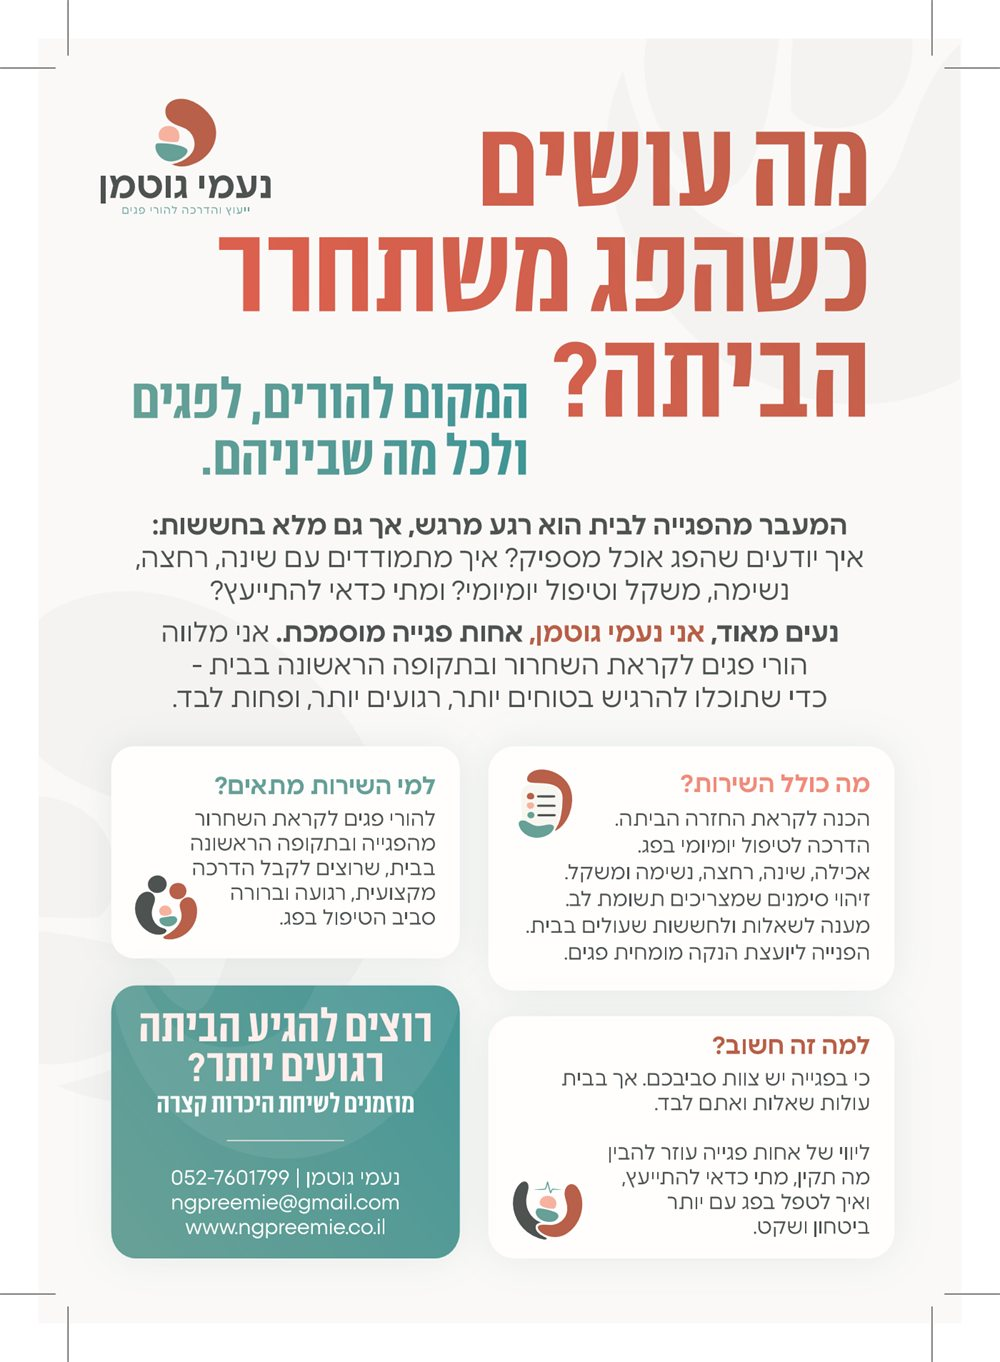
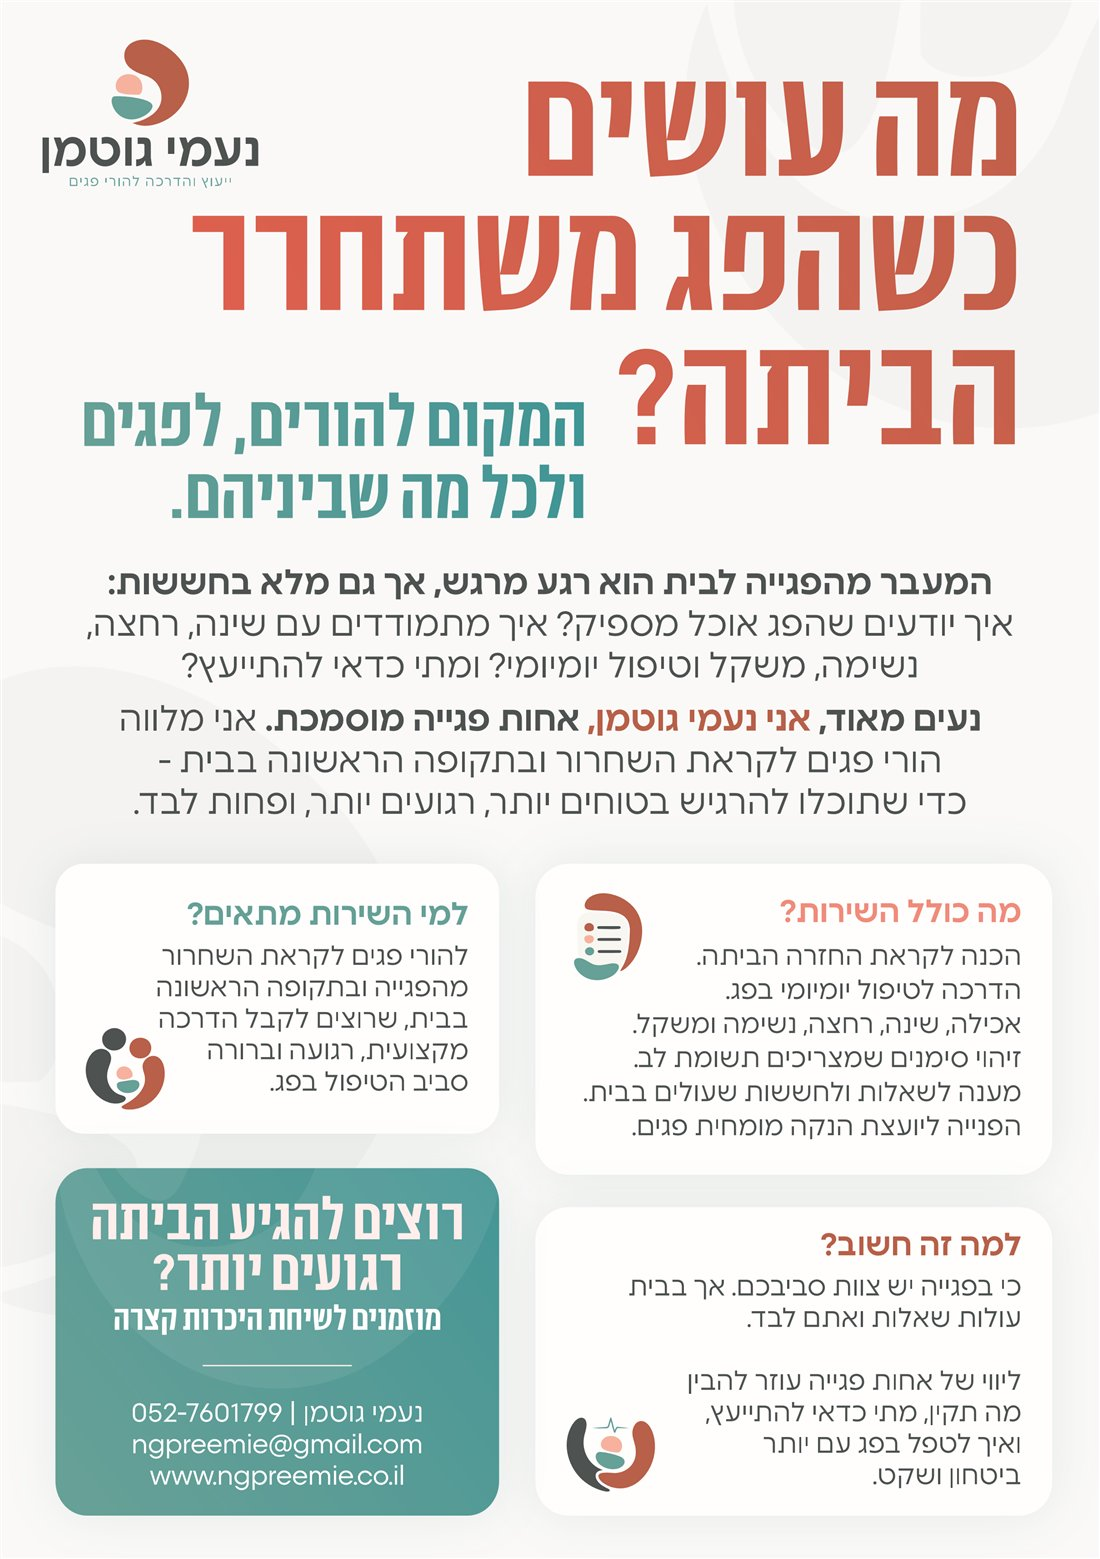
עדכון: תפריט נגישות חדש, פרויקטים במובייל בטור אחד, עמוד הפרויקט של נעמי גוטמן

diff --git a/projects/naomi-gutman.html b/projects/naomi-gutman.html
@@ -12,11 +12,11 @@
   <link rel="icon" href="../assets/logo.svg" type="image/svg+xml">
   <link rel="preload" href="../fonts/Danidin-CondensedBlack.woff2" as="font" type="font/woff2" crossorigin>
   <link rel="preload" href="../fonts/Polin-Regular.woff2" as="font" type="font/woff2" crossorigin>
-  <link rel="stylesheet" href="../css/style.css?v=27">
-  <link rel="stylesheet" href="../css/project.css?v=27">
-  <link rel="stylesheet" href="../css/a11y.css?v=27">
+  <link rel="stylesheet" href="../css/style.css?v=28">
+  <link rel="stylesheet" href="../css/project.css?v=28">
+  <link rel="stylesheet" href="../css/a11y.css?v=28">
   <script>document.documentElement.classList.add("js");</script>
-  <script src="../js/a11y.js?v=27"></script>
+  <script src="../js/a11y.js?v=28"></script>
 </head>
 <body class="pj-page">
 <a class="skip-link" href="#main">דילוג לתוכן הראשי</a>
@@ -237,12 +237,12 @@
       <!-- לוחות המיקוד – כשיש תמונות: מחליפים את ה-div.pj-ph ב-<img src="..." alt="..."> -->
       <div class="pj-boards">
         <figure class="pj-figure pj-board pj-board--muted" data-reveal>
-          <div class="pj-ph"><span>לוח מיקוד 1 – תדר / גל מוניטור</span></div>
+          <img src="../assets/projects/naomi-gutman/focus-1.webp" alt="לוח מיקוד 1 שלא נבחר: בורדו ותכלת, קווים רציפים שנראים כמו גל או תדר, לב שנכתב בקו אחד וזוגות הורים עם תינוק" loading="lazy" width="2000" height="451">
           <figcaption>לוח מיקוד 1 – תדר משותף</figcaption>
         </figure>
         <figure class="pj-figure pj-board pj-board--pick" data-reveal>
           <span class="pj-board__tag">הכיוון שנבחר</span>
-          <div class="pj-ph"><span>לוח מיקוד 2 – משפחה שלמה בדרכה</span></div>
+          <img src="../assets/projects/naomi-gutman/focus-2.jpg" alt="לוח מיקוד 2 שנבחר: אפור-כחול כהה, מנטה ואפרסק, צורות אורגניות רכות, איורי דמויות וזוגות הורים מחבקים תינוק" loading="lazy" width="2000" height="451">
           <figcaption>לוח מיקוד 2 – משפחה, לא מושלמת אבל שלמה</figcaption>
         </figure>
       </div>
@@ -339,11 +339,12 @@
         <p class="pj-lead" data-reveal>מבחינתי, התוצאה היא לא רק מותג שנראה מקצועי, אלא תשתית שמאפשרת לנעמי להציג את עצמה ואת השירות שלה בביטחון.</p>
       </div>
       <div class="pj-gallery">
+        <figure class="pj-gallery__item pj-gallery__item--full" data-reveal><img src="../assets/projects/naomi-gutman/mock-flyers.jpg" alt="הפלאיירים של נעמי גוטמן על משטח בהיר, לצד מדבקה עגולה עם הלוגו וכרטיס בפאטרן של המותג" loading="lazy" width="2000" height="1250"></figure>
+        <figure class="pj-gallery__item pj-gallery__item--full" data-reveal><img src="../assets/projects/naomi-gutman/mock-cards.jpg" alt="כרטיס ביקור עם הלוגו האופקי, גב הכרטיס בפאטרן, מדבקה עגולה ואייקון המותג על רקע אפור-כחול כהה" loading="lazy" width="2000" height="1250"></figure>
+        <figure class="pj-gallery__item pj-gallery__item--43" data-reveal><img src="../assets/projects/naomi-gutman/mock-paper.jpg" alt="דף עם הלוגו האנכי לצד דף בפאטרן המותג, על רקע אפרסק" loading="lazy" width="2000" height="1250"></figure>
+        <figure class="pj-gallery__item pj-gallery__item--43" data-reveal><img src="../assets/projects/naomi-gutman/photo-style.jpg" alt="שפת הצילום של המותג: הורים ותינוקות ברגעים רכים בבית" loading="lazy" width="981" height="1311"></figure>
         <div class="pj-gallery__item pj-gallery__item--full pj-ph" data-reveal><span>מוקאפ של האתר</span></div>
-        <figure class="pj-gallery__item pj-gallery__item--43" data-reveal><img src="../assets/projects/naomi-gutman/logo-round.jpg" alt="הלוגו העגול של נעמי גוטמן: ייעוץ והדרכה להורי פגים" loading="lazy" width="720" height="900"></figure>
-        <figure class="pj-gallery__item pj-gallery__item--43" data-reveal><img src="../assets/projects/naomi-gutman/photo-style.jpg" alt="שפת הצילום של המותג: הורים ותינוקות ברגעים רכים בבית" loading="lazy" width="720" height="900"></figure>
-      </div>
-    </section>
+      </div>    </section>
 
     <!-- ===== 09 התוצאה העסקית ===== -->
     <section class="pj-section" aria-labelledby="pj-business">
@@ -473,7 +474,7 @@
 
 </div>
 
-<script src="../js/config.js?v=27"></script>
-<script src="../js/main.js?v=27"></script>
+<script src="../js/config.js?v=28"></script>
+<script src="../js/main.js?v=28"></script>
 </body>
 </html>

diff --git a/index.html b/index.html
@@ -12,11 +12,11 @@
   <link rel="icon" href="assets/logo.svg" type="image/svg+xml">
   <link rel="preload" href="fonts/Danidin-CondensedBlack.woff2" as="font" type="font/woff2" crossorigin="">
   <link rel="preload" href="fonts/Polin-Regular.woff2" as="font" type="font/woff2" crossorigin="">
-  <link rel="stylesheet" href="css/style.css?v=27">
-  <link rel="stylesheet" href="css/a11y.css?v=27">
+  <link rel="stylesheet" href="css/style.css?v=28">
+  <link rel="stylesheet" href="css/a11y.css?v=28">
   <link rel="stylesheet" href="css/edits/index.css?v=mveaypby">
   <script>document.documentElement.classList.add("js");</script>
-  <script src="js/a11y.js?v=27"></script>
+  <script src="js/a11y.js?v=28"></script>
 </head>
 <body>
 <a class="skip-link" href="#main">דילוג לתוכן הראשי</a>
@@ -51,7 +51,7 @@
     <img class="deco hero__scribble" src="assets/scribble-teal.svg" alt="" aria-hidden="true">
     <img class="deco hero__dots-l" src="assets/dots-left.jpg" alt="" aria-hidden="true">
     <img class="deco hero__dots-r" src="assets/dots-right.jpg" alt="" aria-hidden="true">
-    <img class="deco hero__star" src="assets/star-yellow.png?v=27" alt="" aria-hidden="true">
+    <img class="deco hero__star" src="assets/star-yellow.png?v=28" alt="" aria-hidden="true">
     <img class="hero__photo" src="assets/amit-hero.jpg" alt="עמית סיגאוי מחייכת עם כובע טמבל" width="940" height="918" fetchpriority="high">
     <img class="deco brush brush--hero" src="assets/brush-white.svg" alt="" aria-hidden="true">
 
@@ -285,8 +285,8 @@
 
 </div>
 
-<script src="js/config.js?v=27"></script>
-<script src="js/main.js?v=27"></script>
+<script src="js/config.js?v=28"></script>
+<script src="js/main.js?v=28"></script>
 
 
 </body></html>

diff --git a/projects/maavar-lakavim.html b/projects/maavar-lakavim.html
@@ -12,11 +12,11 @@
   <link rel="icon" href="../assets/logo.svg" type="image/svg+xml">
   <link rel="preload" href="../fonts/Danidin-CondensedBlack.woff2" as="font" type="font/woff2" crossorigin>
   <link rel="preload" href="../fonts/Polin-Regular.woff2" as="font" type="font/woff2" crossorigin>
-  <link rel="stylesheet" href="../css/style.css?v=27">
-  <link rel="stylesheet" href="../css/project.css?v=27">
-  <link rel="stylesheet" href="../css/a11y.css?v=27">
+  <link rel="stylesheet" href="../css/style.css?v=28">
+  <link rel="stylesheet" href="../css/project.css?v=28">
+  <link rel="stylesheet" href="../css/a11y.css?v=28">
   <script>document.documentElement.classList.add("js");</script>
-  <script src="../js/a11y.js?v=27"></script>
+  <script src="../js/a11y.js?v=28"></script>
 </head>
 <body class="pj-page">
 <a class="skip-link" href="#main">דילוג לתוכן הראשי</a>
@@ -403,7 +403,7 @@
 
 </div>
 
-<script src="../js/config.js?v=27"></script>
-<script src="../js/main.js?v=27"></script>
+<script src="../js/config.js?v=28"></script>
+<script src="../js/main.js?v=28"></script>
 </body>
 </html>

diff --git a/projects/maya-shiflaski.html b/projects/maya-shiflaski.html
@@ -12,11 +12,11 @@
   <link rel="icon" href="../assets/logo.svg" type="image/svg+xml">
   <link rel="preload" href="../fonts/Danidin-CondensedBlack.woff2" as="font" type="font/woff2" crossorigin>
   <link rel="preload" href="../fonts/Polin-Regular.woff2" as="font" type="font/woff2" crossorigin>
-  <link rel="stylesheet" href="../css/style.css?v=27">
-  <link rel="stylesheet" href="../css/project.css?v=27">
-  <link rel="stylesheet" href="../css/a11y.css?v=27">
+  <link rel="stylesheet" href="../css/style.css?v=28">
+  <link rel="stylesheet" href="../css/project.css?v=28">
+  <link rel="stylesheet" href="../css/a11y.css?v=28">
   <script>document.documentElement.classList.add("js");</script>
-  <script src="../js/a11y.js?v=27"></script>
+  <script src="../js/a11y.js?v=28"></script>
 </head>
 <body class="pj-page">
 <a class="skip-link" href="#main">דילוג לתוכן הראשי</a>
@@ -397,7 +397,7 @@
 
 </div>
 
-<script src="../js/config.js?v=27"></script>
-<script src="../js/main.js?v=27"></script>
+<script src="../js/config.js?v=28"></script>
+<script src="../js/main.js?v=28"></script>
 </body>
 </html>

diff --git a/projects/rikmat.html b/projects/rikmat.html
@@ -12,11 +12,11 @@
   <link rel="icon" href="../assets/logo.svg" type="image/svg+xml">
   <link rel="preload" href="../fonts/Danidin-CondensedBlack.woff2" as="font" type="font/woff2" crossorigin>
   <link rel="preload" href="../fonts/Polin-Regular.woff2" as="font" type="font/woff2" crossorigin>
-  <link rel="stylesheet" href="../css/style.css?v=27">
-  <link rel="stylesheet" href="../css/project.css?v=27">
-  <link rel="stylesheet" href="../css/a11y.css?v=27">
+  <link rel="stylesheet" href="../css/style.css?v=28">
+  <link rel="stylesheet" href="../css/project.css?v=28">
+  <link rel="stylesheet" href="../css/a11y.css?v=28">
   <script>document.documentElement.classList.add("js");</script>
-  <script src="../js/a11y.js?v=27"></script>
+  <script src="../js/a11y.js?v=28"></script>
 </head>
 <body class="pj-page">
 <a class="skip-link" href="#main">דילוג לתוכן הראשי</a>
@@ -481,7 +481,7 @@
 
 </div>
 
-<script src="../js/config.js?v=27"></script>
-<script src="../js/main.js?v=27"></script>
+<script src="../js/config.js?v=28"></script>
+<script src="../js/main.js?v=28"></script>
 </body>
 </html>

diff --git a/projects/tenniswing.html b/projects/tenniswing.html
@@ -12,11 +12,11 @@
   <link rel="icon" href="../assets/logo.svg" type="image/svg+xml">
   <link rel="preload" href="../fonts/Danidin-CondensedBlack.woff2" as="font" type="font/woff2" crossorigin>
   <link rel="preload" href="../fonts/Polin-Regular.woff2" as="font" type="font/woff2" crossorigin>
-  <link rel="stylesheet" href="../css/style.css?v=27">
-  <link rel="stylesheet" href="../css/project.css?v=27">
-  <link rel="stylesheet" href="../css/a11y.css?v=27">
+  <link rel="stylesheet" href="../css/style.css?v=28">
+  <link rel="stylesheet" href="../css/project.css?v=28">
+  <link rel="stylesheet" href="../css/a11y.css?v=28">
   <script>document.documentElement.classList.add("js");</script>
-  <script src="../js/a11y.js?v=27"></script>
+  <script src="../js/a11y.js?v=28"></script>
 </head>
 <body class="pj-page">
 <a class="skip-link" href="#main">דילוג לתוכן הראשי</a>
@@ -487,7 +487,7 @@
 
 </div>
 
-<script src="../js/config.js?v=27"></script>
-<script src="../js/main.js?v=27"></script>
+<script src="../js/config.js?v=28"></script>
+<script src="../js/main.js?v=28"></script>
 </body>
 </html>

diff --git a/projects/zman-yaar.html b/projects/zman-yaar.html
@@ -12,11 +12,11 @@
   <link rel="icon" href="../assets/logo.svg" type="image/svg+xml">
   <link rel="preload" href="../fonts/Danidin-CondensedBlack.woff2" as="font" type="font/woff2" crossorigin>
   <link rel="preload" href="../fonts/Polin-Regular.woff2" as="font" type="font/woff2" crossorigin>
-  <link rel="stylesheet" href="../css/style.css?v=27">
-  <link rel="stylesheet" href="../css/project.css?v=27">
-  <link rel="stylesheet" href="../css/a11y.css?v=27">
+  <link rel="stylesheet" href="../css/style.css?v=28">
+  <link rel="stylesheet" href="../css/project.css?v=28">
+  <link rel="stylesheet" href="../css/a11y.css?v=28">
   <script>document.documentElement.classList.add("js");</script>
-  <script src="../js/a11y.js?v=27"></script>
+  <script src="../js/a11y.js?v=28"></script>
 </head>
 <body class="pj-page">
 <a class="skip-link" href="#main">דילוג לתוכן הראשי</a>
@@ -514,7 +514,7 @@
 
 </div>
 
-<script src="../js/config.js?v=27"></script>
-<script src="../js/main.js?v=27"></script>
+<script src="../js/config.js?v=28"></script>
+<script src="../js/main.js?v=28"></script>
 </body>
 </html>

diff --git a/privacy.html b/privacy.html
@@ -5,10 +5,10 @@
   <meta name="viewport" content="width=device-width, initial-scale=1">
   <title>מדיניות פרטיות | עמית סיגאוי</title>
   <link rel="icon" href="assets/logo.svg" type="image/svg+xml">
-  <link rel="stylesheet" href="css/style.css?v=27">
-  <link rel="stylesheet" href="css/legal.css?v=27">
-  <link rel="stylesheet" href="css/a11y.css?v=27">
-  <script src="js/a11y.js?v=27"></script>
+  <link rel="stylesheet" href="css/style.css?v=28">
+  <link rel="stylesheet" href="css/legal.css?v=28">
+  <link rel="stylesheet" href="css/a11y.css?v=28">
+  <script src="js/a11y.js?v=28"></script>
 </head>
 <body>
 <div class="page">

diff --git a/accessibility.html b/accessibility.html
@@ -5,10 +5,10 @@
   <meta name="viewport" content="width=device-width, initial-scale=1">
   <title>הצהרת נגישות | עמית סיגאוי</title>
   <link rel="icon" href="assets/logo.svg" type="image/svg+xml">
-  <link rel="stylesheet" href="css/style.css?v=27">
-  <link rel="stylesheet" href="css/legal.css?v=27">
-  <link rel="stylesheet" href="css/a11y.css?v=27">
-  <script src="js/a11y.js?v=27"></script>
+  <link rel="stylesheet" href="css/style.css?v=28">
+  <link rel="stylesheet" href="css/legal.css?v=28">
+  <link rel="stylesheet" href="css/a11y.css?v=28">
+  <script src="js/a11y.js?v=28"></script>
 </head>
 <body>
 <div class="page">
